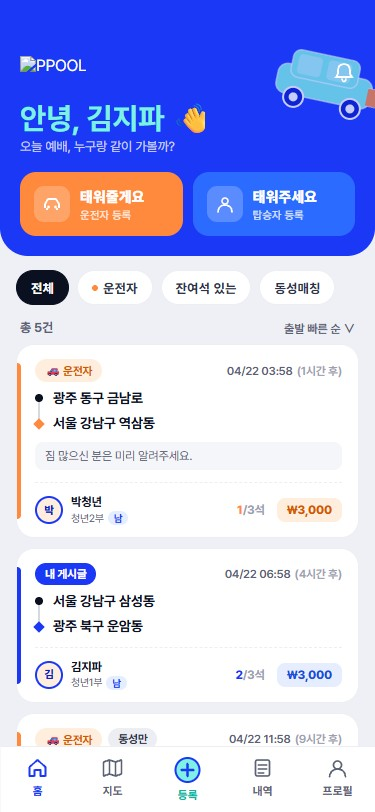
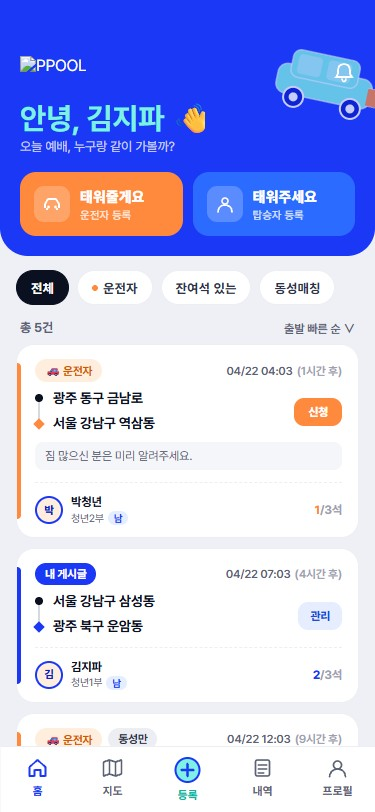
feat: 게시글 카드 경로 우측 신청 버튼 추가, 분담금 배지 제거

diff --git a/src/components/ride/RideCard.tsx b/src/components/ride/RideCard.tsx
@@ -13,8 +13,6 @@ export function RideCard({ ride, isMyRide = false, myRequestStatus = null }: Pro
   const isFull = ride.status === 'FULL' || ride.current_seats >= ride.max_seats
   const remaining = ride.max_seats - ride.current_seats
   const accentColor = isMyRide ? 'var(--blue-hero)' : 'var(--driver)'
-  const softColor = isMyRide ? 'var(--rider-soft)' : 'var(--driver-soft)'
-  const inkColor = isMyRide ? 'var(--rider-ink)' : 'var(--driver-ink)'
   const avatarBg = ride.driver?.gender === 'F' ? 'var(--rider-soft)' : 'var(--driver-soft)'
 
   return (
@@ -52,16 +50,53 @@ export function RideCard({ ride, isMyRide = false, myRequestStatus = null }: Pro
           </div>
         </div>
 
-        {/* 경로 */}
-        <div className="post-route">
-          <div className="post-route-line">
-            <div className="post-route-dot" />
-            <div className="post-route-connector" />
-            <div className="post-route-diamond" style={{ background: accentColor }} />
+        {/* 경로 + 신청 버튼 */}
+        <div style={{ display: 'flex', alignItems: 'center', gap: 8 }}>
+          <div className="post-route" style={{ flex: 1 }}>
+            <div className="post-route-line">
+              <div className="post-route-dot" />
+              <div className="post-route-connector" />
+              <div className="post-route-diamond" style={{ background: accentColor }} />
+            </div>
+            <div className="post-route-text">
+              <div className="post-route-from">{ride.origin}</div>
+              <div className="post-route-to">{ride.destination}</div>
+            </div>
           </div>
-          <div className="post-route-text">
-            <div className="post-route-from">{ride.origin}</div>
-            <div className="post-route-to">{ride.destination}</div>
+
+          {/* 신청 버튼 */}
+          <div onClick={e => { e.stopPropagation(); navigate(`/rides/${ride.id}`) }}>
+            {isMyRide ? (
+              <span style={{
+                fontSize: 11.5, fontWeight: 800, padding: '7px 12px', borderRadius: 10,
+                background: 'var(--rider-soft)', color: 'var(--rider-ink)',
+                whiteSpace: 'nowrap',
+              }}>관리</span>
+            ) : myRequestStatus === 'APPROVED' ? (
+              <span style={{
+                fontSize: 11.5, fontWeight: 800, padding: '7px 12px', borderRadius: 10,
+                background: '#DEFAF5', color: 'var(--mint-ink)',
+                whiteSpace: 'nowrap',
+              }}>확정</span>
+            ) : myRequestStatus === 'PENDING' ? (
+              <span style={{
+                fontSize: 11.5, fontWeight: 800, padding: '7px 12px', borderRadius: 10,
+                background: 'var(--ink-10)', color: 'var(--ink-60)',
+                whiteSpace: 'nowrap',
+              }}>대기중</span>
+            ) : isFull ? (
+              <span style={{
+                fontSize: 11.5, fontWeight: 700, padding: '7px 12px', borderRadius: 10,
+                background: 'var(--ink-10)', color: 'var(--ink-40)',
+                whiteSpace: 'nowrap',
+              }}>마감</span>
+            ) : (
+              <span style={{
+                fontSize: 11.5, fontWeight: 800, padding: '7px 14px', borderRadius: 10,
+                background: accentColor, color: '#fff',
+                whiteSpace: 'nowrap',
+              }}>신청</span>
+            )}
           </div>
         </div>
 
@@ -105,12 +140,6 @@ export function RideCard({ ride, isMyRide = false, myRequestStatus = null }: Pro
                 <span style={{ color: 'var(--ink-40)' }}>/{ride.max_seats}석</span>
               </span>
             )}
-            <div
-              className="post-fare-badge"
-              style={{ background: softColor, color: inkColor }}
-            >
-              ₩{(ride.fare_per_person ?? 3000).toLocaleString()}
-            </div>
           </div>
         </div>
       </div>
